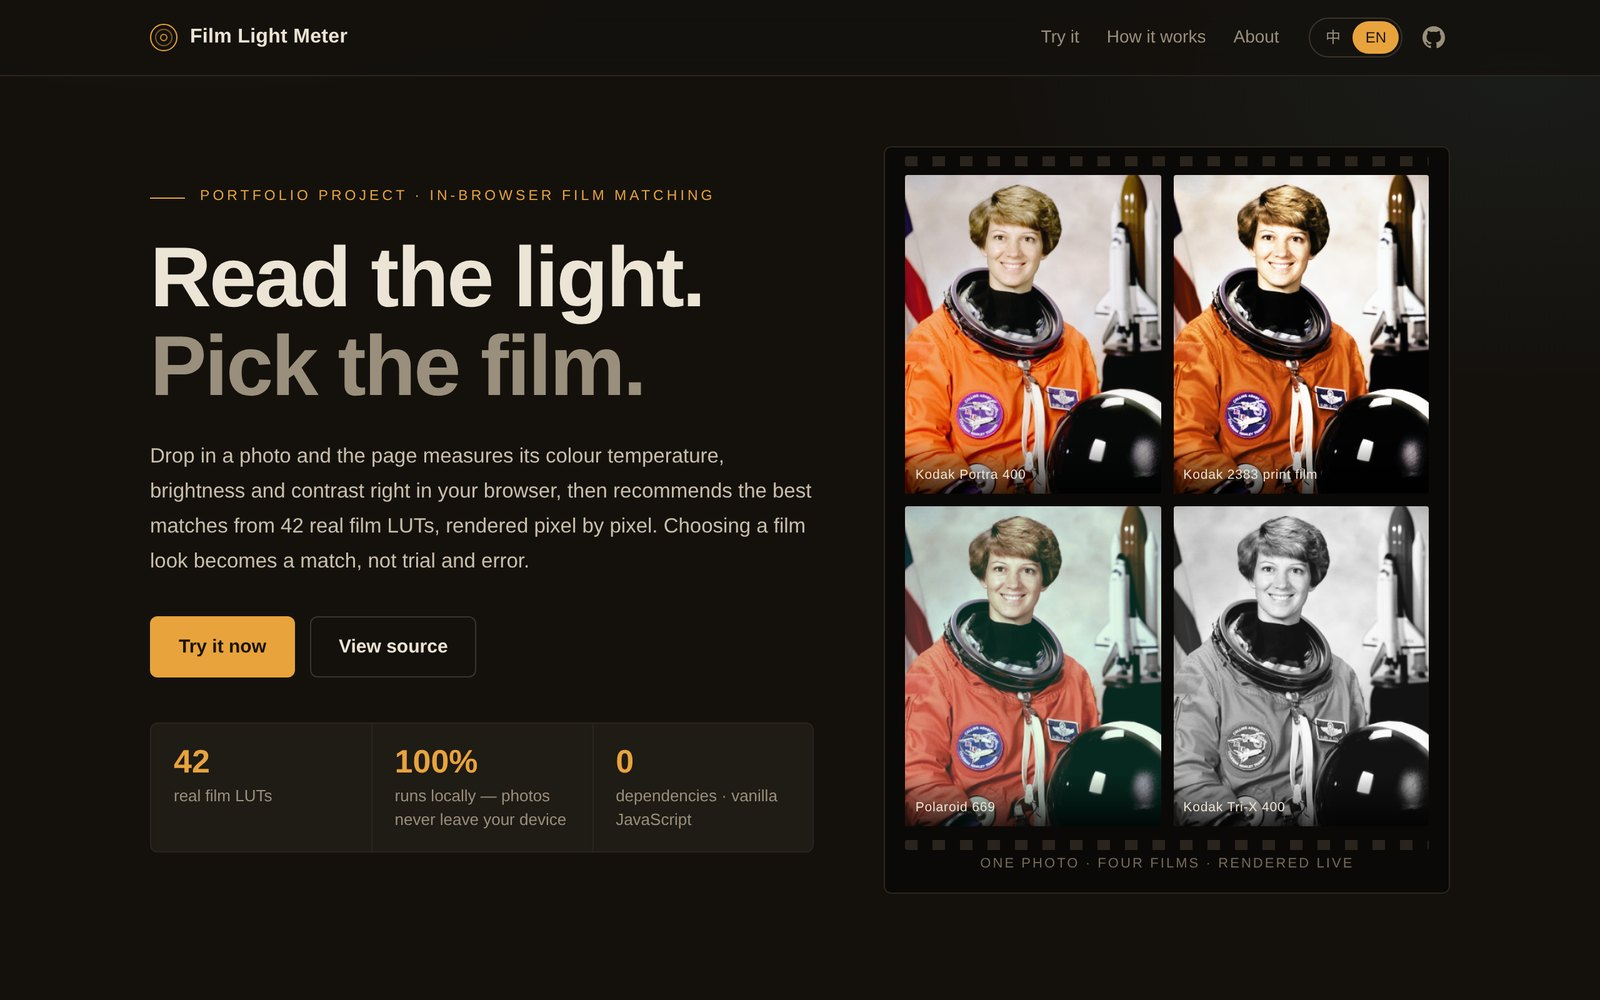
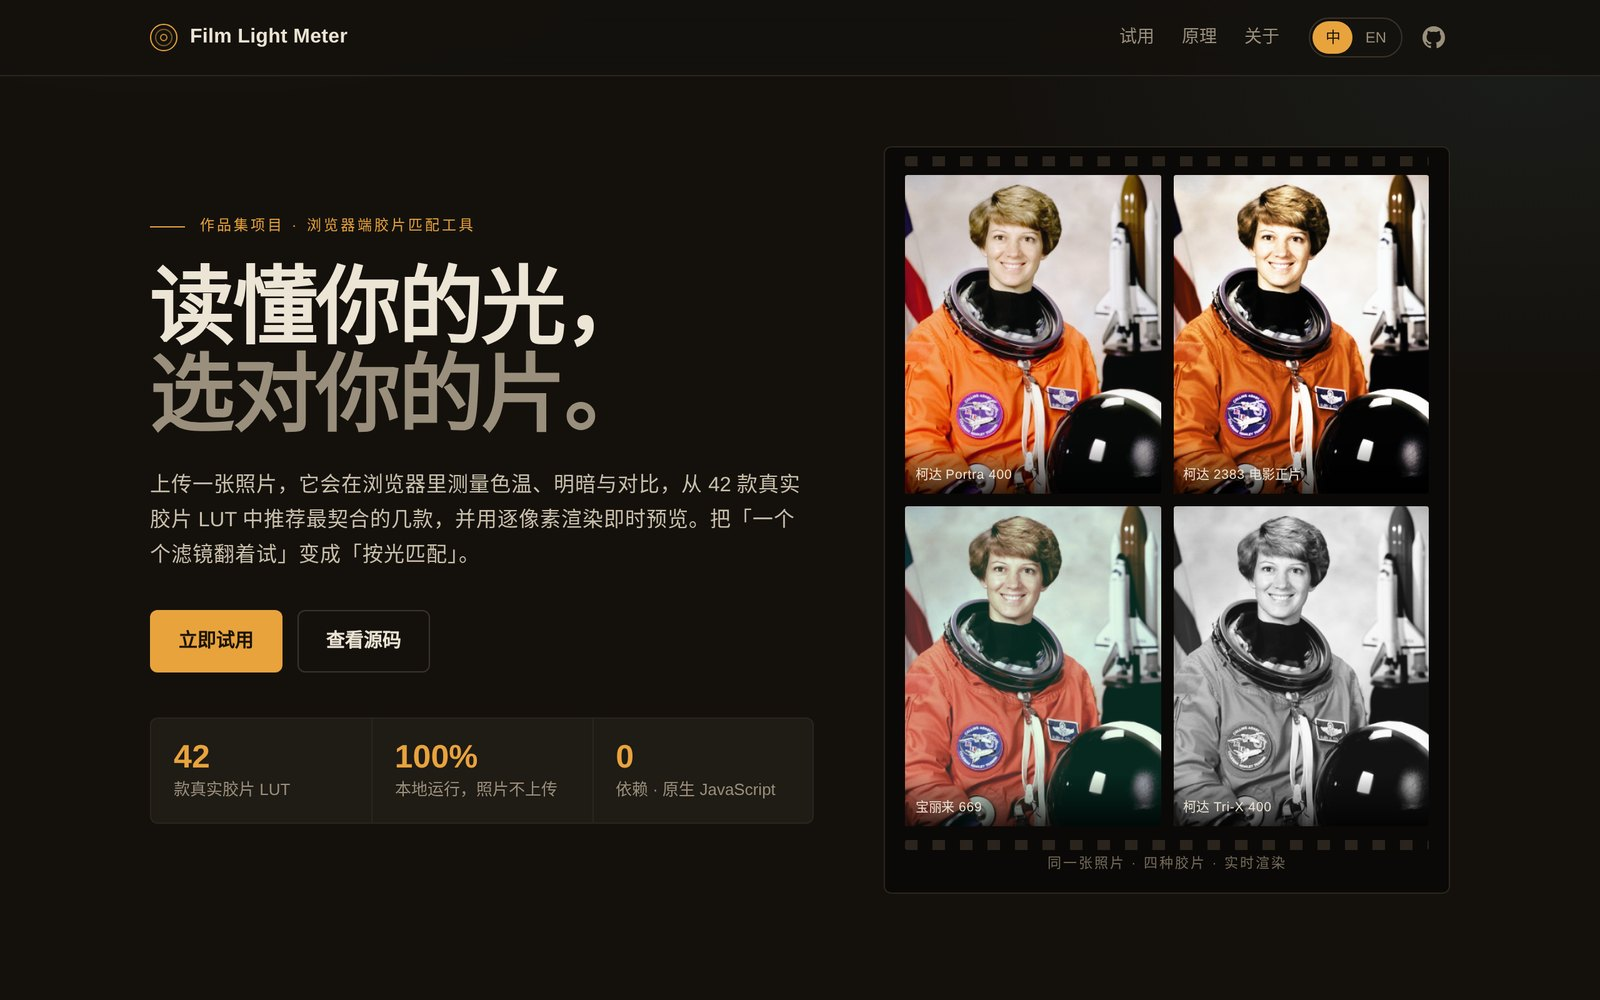
Make Chinese the primary language (default UI, README, meta, screenshots)

diff --git a/index.html b/index.html
@@ -4,12 +4,13 @@
 <meta charset="UTF-8" />
 <meta name="viewport" content="width=device-width, initial-scale=1.0" />
 <title>Film Light Meter · 读懂光线，匹配胶片</title>
-<meta name="description" content="Read the light in a photo and match it to 42 real film LUTs — fully in the browser. 在浏览器里读取照片光线，从 42 款真实胶片 LUT 中推荐最契合的质感。" />
+<meta name="description" content="在浏览器里读取照片的色温、明暗与对比，从 42 款真实胶片 LUT 中推荐最契合的质感并实时预览。Read the light in a photo and match it to real film LUTs." />
 <meta name="author" content="Yunrui Lin" />
 <meta name="theme-color" content="#14110d" />
 <meta property="og:type" content="website" />
-<meta property="og:title" content="Film Light Meter — Read the light, pick the film" />
-<meta property="og:description" content="An in-browser tool that measures a photo's light and recommends matching film looks, rendered with real 3D LUTs." />
+<meta property="og:locale" content="zh_CN" />
+<meta property="og:title" content="Film Light Meter · 读懂你的光，选对你的片" />
+<meta property="og:description" content="上传一张照片，读取光线，从 42 款真实胶片 LUT 中推荐最契合的质感，全部在浏览器本地完成。" />
 <meta property="og:url" content="https://yunruilin99.github.io/filter-light-meter/" />
 <meta property="og:image" content="https://yunruilin99.github.io/filter-light-meter/docs/og.png" />
 <meta name="twitter:card" content="summary_large_image" />

diff --git a/assets/js/app.js b/assets/js/app.js
@@ -20,8 +20,7 @@ const state = {
 
 function initialLang() {
   const q = new URLSearchParams(location.search).get("lang");
-  if (q === "zh" || q === "en") return q;
-  return (navigator.language || "").toLowerCase().startsWith("zh") ? "zh" : "en";
+  return q === "en" ? "en" : "zh"; // 默认中文，?lang=en 切换英文
 }
 const t = (key) => T.STRINGS[state.lang][key] ?? key;
 
@@ -43,7 +42,7 @@ function setLang(lang) {
   if (lang === state.lang) return;
   state.lang = lang;
   const url = new URL(location.href);
-  url.searchParams.set("lang", lang);
+  if (lang === "en") url.searchParams.set("lang", "en"); else url.searchParams.delete("lang");
   history.replaceState(null, "", url);
   applyLang();
 }

diff --git a/README.md b/README.md
@@ -2,109 +2,102 @@
 
 # Film Light Meter · 光线读数
 
-**Read the light. Pick the film.**
-An in-browser tool that measures the light in a photo and recommends matching film looks, rendered with real 3D LUTs.
+**读懂你的光，选对你的片。**
+一个在浏览器里读取照片光线、推荐最契合胶片质感、并用真实 3D LUT 实时预览的小工具。
 
-**读懂你的光，选对你的片。** 一个在浏览器里读取照片光线、推荐最契合胶片质感的小工具。
+*Read the light. Pick the film.*
 
-[**▶ Live demo**](https://yunruilin99.github.io/filter-light-meter/) · [中文说明](#中文说明)
+[**▶ 在线体验**](https://yunruilin99.github.io/filter-light-meter/) · [English](#english)
 
-![Film Light Meter: hero section with the same photo rendered through four film LUTs](docs/hero.jpg)
+![Film Light Meter 首屏：同一张照片经过四款胶片 LUT 的实时渲染](docs/hero.jpg)
 
 </div>
 
-## The problem
+## 要解决的问题
 
-Photo apps and cameras offer dozens of film simulations, and choosing one usually means clicking through them all. Film Light Meter reverses that: it **reads the light in your photo first**, then recommends the few films that suit it and explains why.
+手机和相机里有几十款胶片模拟，挑选时往往只能一个个试。这个工具把顺序反过来：**先读懂照片本身的光**，再推荐最合适的几款胶片，并说明理由。
 
-## Features
+## 功能
 
-- **Light reading.** Estimates colour temperature (2800–8000K), brightness, contrast and saturation from the photo's actual pixels.
-- **Film matching.** Scores 42 film stocks (colour negative, slide, Fujifilm simulations, B&W, instant and cinema print) and returns the top four with a short reason for each.
-- **Real LUT previews.** Each recommendation is rendered with that film's `.cube` 3D LUT, pixel by pixel. Press and hold a preview to compare it with the original.
-- **Interactive refinement.** Exclude film categories or override the detected scene, and the results update instantly.
-- **Private by design.** Everything runs locally in the browser. Photos are never uploaded.
-- **Bilingual.** Switch between 中文 and English at any time.
+- **光线读数**：基于照片的真实像素，估算色温（2800–8000K）、明暗、对比和饱和度
+- **胶片匹配**：覆盖彩色负片、正片、富士数字模拟、黑白、一次成像和电影正片共 42 款，加权打分后推荐前四名，并附推荐理由
+- **真实 LUT 预览**：用每款胶片的 `.cube` 3D LUT 逐像素渲染，按住预览图即可与原图对比
+- **实时调整**：排除某些胶片类别或手动指定场景，推荐结果立即刷新
+- **隐私友好**：所有计算都在浏览器本地完成，照片不会上传
+- **示例照片**：没有合适的照片时，点一下示例就能看到效果
+- **中英双语**：默认中文，可一键切换英文
 
-![Results: light reading with colour-temperature gauge, and four recommended films rendered on the photo](docs/results.jpg)
+![推荐结果：色温读数与四款胶片在照片上的真实渲染效果](docs/results.jpg)
 
-## How it works
+## 实现原理
 
 ```
-photo ──► measure ──► match ──► render
-          120px        42 film    .cube 3D LUT
-          sample       profiles   trilinear interpolation
+照片 ──► 测光 ──► 匹配 ──► 渲染
+         120px     42 款     .cube 3D LUT
+         采样      胶片档案   三线性插值
 ```
 
-1. **Measure** (`assets/js/analyze.js`). The photo is downsampled to 120px. The red/blue balance gives a colour-temperature estimate, the P5–P95 luminance spread gives contrast, and mean saturation plus the share of green-dominant pixels hint at the scene (portrait, landscape, night or everyday).
-2. **Match** (`assets/js/analyze.js`, `assets/js/films.js`). Every film is tagged with the brightness, contrast, white-balance and saturation ranges it suits. A weighted score ranks them: white balance and brightness count most, and night-only stocks are penalised in daylight.
-3. **Render** (`assets/js/lut.js`). Only the recommended films' LUTs are fetched (lazy-loaded and cached). Each pixel is mapped through the 9×9×9 LUT with trilinear interpolation on a `<canvas>`.
+1. **测光**（`assets/js/analyze.js`）：把照片缩到 120px 后逐像素统计。用红蓝通道比估算色温，用亮度 P5–P95 百分位差衡量对比，再用平均饱和度和绿色像素占比辅助判断场景（人像、风景、夜景或日常）。
+2. **匹配**（`assets/js/analyze.js`、`assets/js/films.js`）：每款胶片都标注了适合的明暗、对比、色温和饱和区间，加权打分后排序。色温和明暗权重最高；夜景专用的高感胶片在日光场景下会被降权。
+3. **渲染**（`assets/js/lut.js`）：只按需加载被推荐胶片的 LUT，并做缓存；在 `<canvas>` 上把每个像素通过 9×9×9 的 LUT 做三线性插值映射。
 
-## Tech
+## 技术栈
 
-Vanilla JavaScript (ES modules) · Canvas 2D · 3D LUTs (`.cube`) · HTML/CSS · deployed to GitHub Pages with GitHub Actions. No frameworks and no build step.
+原生 JavaScript（ES Modules）· Canvas 2D · 3D LUT（`.cube`）· HTML / CSS · 通过 GitHub Actions 部署到 GitHub Pages。不依赖任何框架，也不需要构建步骤。
 
 ```
 index.html
 assets/
   css/style.css
-  js/app.js        UI, state, rendering
-  js/analyze.js    light measurement and film scoring
-  js/lut.js        .cube parser and trilinear LUT engine
-  js/films.js      42 film profiles (bilingual)
-  js/i18n.js       UI copy and generated explanations (zh / en)
-  luts/*.cube      film LUTs
-  samples/*.jpg    sample photos
+  js/app.js        界面、状态与渲染
+  js/analyze.js    测光与胶片打分
+  js/lut.js        .cube 解析与三线性插值 LUT 引擎
+  js/films.js      42 款胶片档案（中英）
+  js/i18n.js       界面文案与推荐理由生成（中 / 英）
+  luts/*.cube      胶片 LUT
+  samples/*.jpg    示例照片
 ```
 
-Run locally (a local server is needed because the LUTs are fetched):
+本地运行（LUT 通过网络请求加载，需要起一个本地服务）：
 
 ```bash
 python3 -m http.server 8000
-# open http://localhost:8000
+# 打开 http://localhost:8000
 ```
 
-## My role
+## 我的角色
 
-I built this project end to end:
+这个项目由我独立完成：
 
-- **Product:** defined the problem and scoped the "match by light" approach
-- **Design:** interaction flow and the dark, film-inspired visual language
-- **Engineering:** front-end, the light-measurement heuristics, the scoring model and the LUT renderer
-- **AI-assisted development:** used AI coding tools to move faster, while setting the direction, making the algorithmic trade-offs and reviewing everything that shipped
+- **产品**：定义问题，确定「按光匹配」的思路和功能范围
+- **设计**：交互流程，以及暗色胶片风格的视觉语言
+- **开发**：前端实现、测光算法、打分模型和 LUT 渲染引擎
+- **AI 辅助开发**：借助 AI 编码工具提升效率，由我把控方向、做算法取舍并审校最终代码
 
-## Next steps
+## 下一步
 
-- WebGL rendering at full resolution, with export
-- LLM-written recommendations through a server-side proxy (API keys never reach the browser)
-- Read EXIF data (white balance, ISO) to sharpen the reading
+- 用 WebGL 渲染全尺寸图片，并支持导出
+- 通过服务端代理接入大模型，生成个性化推荐文案（API key 不暴露在浏览器中）
+- 读取 EXIF（白平衡、ISO）来提升测光精度
 
-## Credits
+## 致谢
 
-- Film LUTs from the open-source [G'MIC](https://gmic.eu/) film emulation collection.
-- Sample photos from [scikit-image](https://scikit-image.org/docs/stable/api/skimage.data.html): *Eileen Collins* (NASA, public domain), *Coffee* (Rachel Michetti, CC0), *Chelsea the cat* (Stefan van der Walt, CC0), *DSCOVR launch* (SpaceX, public domain).
+- 胶片 LUT 源自开源的 [G'MIC](https://gmic.eu/) 胶片模拟合集
+- 示例照片来自 [scikit-image](https://scikit-image.org/docs/stable/api/skimage.data.html)：*Eileen Collins*（NASA，公有领域）、*Coffee*（Rachel Michetti，CC0）、*Chelsea the cat*（Stefan van der Walt，CC0）、*DSCOVR launch*（SpaceX，公有领域）
 
 ---
 
-## 中文说明
+## English
 
-**[▶ 在线体验](https://yunruilin99.github.io/filter-light-meter/)**
+**[▶ Live demo](https://yunruilin99.github.io/filter-light-meter/?lang=en)** (English UI)
 
-手机和相机里有几十款胶片模拟，挑选时往往只能一个个试。这个工具把顺序反过来：**先读懂照片本身的光**，再推荐最合适的几款胶片，并说明理由。
+Photo apps and cameras offer dozens of film simulations, and choosing one usually means clicking through them all. Film Light Meter reverses that: it reads the light in your photo first, then recommends the few films that suit it and explains why.
 
-**功能**
+- **Light reading:** estimates colour temperature (2800–8000K), brightness, contrast and saturation from the photo's pixels.
+- **Film matching:** scores 42 film stocks and returns the top four with a reason for each.
+- **Real LUT previews:** every pick is rendered through its `.cube` 3D LUT with trilinear interpolation. Press and hold to compare with the original.
+- **Private:** everything runs in the browser, and photos are never uploaded.
 
-- **光线读数**：基于照片的真实像素，估算色温（2800–8000K）、明暗、对比和饱和度
-- **胶片匹配**：覆盖彩色负片、正片、富士数字模拟、黑白、一次成像和电影正片共 42 款，按加权打分推荐前四名，并附推荐理由
-- **真实 LUT 预览**：用每款胶片的 `.cube` 3D LUT 逐像素渲染，按住预览图即可与原图对比
-- **实时调整**：排除某些胶片类别或手动指定场景，推荐结果立即刷新
-- **隐私友好**：所有计算都在浏览器本地完成，照片不会上传
-- **中英双语**：可随时切换
+**Stack:** vanilla JavaScript (ES modules), Canvas 2D and 3D LUTs, deployed to GitHub Pages via GitHub Actions. No frameworks and no build step.
 
-**实现原理**
-
-1. **测光**：把照片缩到 120px 后逐像素统计，用红蓝通道比估算色温，用亮度 P5–P95 百分位差衡量对比，用平均饱和度和绿色像素占比辅助判断场景
-2. **匹配**：每款胶片都标注了适合的明暗、对比、色温和饱和区间，加权打分后排序
-3. **渲染**：只按需加载被推荐胶片的 LUT，在 Canvas 上做三线性插值
-
-**我的角色**：独立完成产品构思与需求定义、交互与视觉设计、前端开发与算法实现。开发过程中借助 AI 辅助编码，由我把控方向、做算法取舍并审校最终代码。
+**My role:** I built it end to end, covering product definition, interaction and visual design, front-end and algorithm implementation. I used AI-assisted coding, and I set the direction and reviewed everything that shipped.
